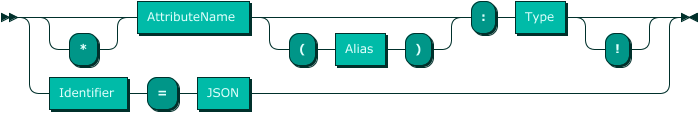
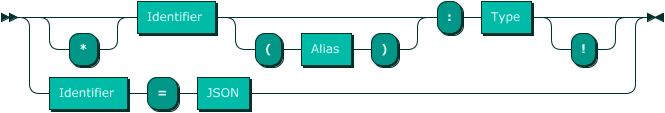
OQL-32 docs

Changed region(s): [[0.0, 0.0, 0.6617, 1.0], [0.6316, 0.0, 0.9925, 0.823]]

diff --git a/docs/syntax.html b/docs/syntax.html
@@ -202,6 +202,39 @@ vinctustech/oql
   <dt>Identifier</dt>
   <dd>An identifier can have letters, digits, underscores, and dollar signs, but may not begin with a digit.</dd>
   <dd><img src="assets/images/diagram/Identifier.png" alt="Identifier" /></dd>
+  <dt>Alias</dt>
+  <dd>Aliases are identifiers.</dd>
+  <dt>Attribute</dt>
+  <dd>Attributes correspond to columns in a table, if they have a datatype, or a simple entity type (i.e., just the name of an entity). An attribute that begins with an asterisk is the primary key. The name of an attribute can be aliased. An attribute that ends with an exclamation mark can&rsquo;t be null or excluded when inserting.</dd>
+  <dd><img src="assets/images/diagram/Attribute.png" alt="Attribute" /></dd>
+  <dt>Type</dt>
+  <dd>There are several kinds of attribute types:
+    <dl>
+      <dt>Datatype</dt>
+      <dd>Corresponds to a databased engine datatype. These attributes correspond to table columns that are not foreign keys.</dd>
+      <dt>Many-to-one
+      </dt>
+      <dd>This is the entity relationship type that corresponds to a column.</dd>
+      <dt>One-to-many
+      </dt>
+      <dd>This is the array entity relationship type that represents all the entities (rows) that are referencing any given entity.</dd>
+      <dt>Many-to-many
+      </dt>
+      <dd>the many-to-many relationship</dd>
+      <dt>One-to-many
+      </dt>
+      <dd>the one-to-many relationship</dd>
+    </dl>
+  </dd>
+  <dd>
+  <p><img src="assets/images/diagram/Type.png" alt="Type" /></p></dd>
+  <dt>DataType</dt>
+  <dd>Any one of the basic datatypes that are commonly support by database systems.</dd>
+  <dd><img src="assets/images/diagram/DataType.png" alt="DataType" /></dd>
+  <dt>EntityName</dt>
+  <dd>An EntityName is an identifier that corresponds either to the identifier given as the entity name if it wasn&rsquo;t aliased, or to the alias if it was.</dd>
+  <dt>AttributeName</dt>
+  <dd>An AttributeName is an identifier that corresponds either to the identifier given as the attribute name if it wasn&rsquo;t aliased, or to the alias if it was.</dd>
 </dl>
 </div>
 <div>

diff --git a/docs/overview.html b/docs/overview.html
@@ -169,7 +169,7 @@ vinctustech/oql
 <p>The name &ldquo;OQL&rdquo; refers to both a software library, and a query language implemented within that library. The OQL library provides support for data retrieval (via the OQL query language), and a query builder for constructing queries step by step in your code. There are also class methods for performing all kinds of mutations, including mutations that support the ER model view of the database. Furthermore, query and mutation operations all abide by the supplied ER data model.</p>
 <p>Some features of the OQL language include:</p>
 <ul>
-  <li>similar to <a href="https://graphql.org/">GraphQL</a> in that query results have exactly the structure requested in the query (i.e., you get what you ask for).</li>
+  <li>similar to <a href="https://graphql.org/">GraphQL</a> in that query results have exactly the structure requested in the query (i.e., you get what you ask for)</li>
   <li>uses a very simple <a href="https://en.wikipedia.org/wiki/Entity%E2%80%93relationship_model">Entity-Relationship Model</a> description of the database</li>
   <li>works with the <a href="https://www.postgresql.org/">PostgreSQL</a> database system</li>
   <li>designed to work with existing databases without having to change the database at all</li>

diff --git a/src/main/paradox/syntax.md b/src/main/paradox/syntax.md
@@ -20,3 +20,40 @@ Entity
 Identifier
 : An identifier can have letters, digits, underscores, and dollar signs, but may not begin with a digit.
 : ![Identifier](.../diagram/Identifier.png)
+
+Alias
+: Aliases are identifiers.
+
+Attribute
+: Attributes correspond to columns in a table, if they have a datatype, or a simple entity type (i.e., just the name of an entity).  An attribute that begins with an asterisk is the primary key.  The name of an attribute can be aliased.  An attribute that ends with an exclamation mark can't be null or excluded when inserting.
+: ![Attribute](.../diagram/Attribute.png)
+
+Type
+: There are several kinds of attribute types:
+
+    Datatype
+    : Corresponds to a databased engine datatype. These attributes correspond to table columns that are not foreign keys.
+
+    Many-to-one
+    : This is the entity relationship type that corresponds to a column.
+
+    One-to-many
+    : This is the array entity relationship type that represents all the entities (rows) that are referencing any given entity. 
+
+    Many-to-many
+    : the many-to-many relationship
+
+    One-to-many
+    : the one-to-many relationship
+
+: ![Type](.../diagram/Type.png)
+
+DataType
+: Any one of the basic datatypes that are commonly support by database systems.
+: ![DataType](.../diagram/DataType.png)
+
+EntityName
+: An EntityName is an identifier that corresponds either to the identifier given as the entity name if it wasn't aliased, or to the alias if it was.
+
+AttributeName
+: An AttributeName is an identifier that corresponds either to the identifier given as the attribute name if it wasn't aliased, or to the alias if it was.

diff --git a/src/main/paradox/overview.md b/src/main/paradox/overview.md
@@ -7,7 +7,7 @@ The name "OQL" refers to both a software library, and a query language implement
 
 Some features of the OQL language include:
 
-- similar to [GraphQL](https://graphql.org/) in that query results have exactly the structure requested in the query (i.e., you get what you ask for).
+- similar to [GraphQL](https://graphql.org/) in that query results have exactly the structure requested in the query (i.e., you get what you ask for)
 - uses a very simple [Entity-Relationship Model](https://en.wikipedia.org/wiki/Entity%E2%80%93relationship_model) description of the database
 - works with the [PostgreSQL](https://www.postgresql.org/) database system
 - designed to work with existing databases without having to change the database at all
